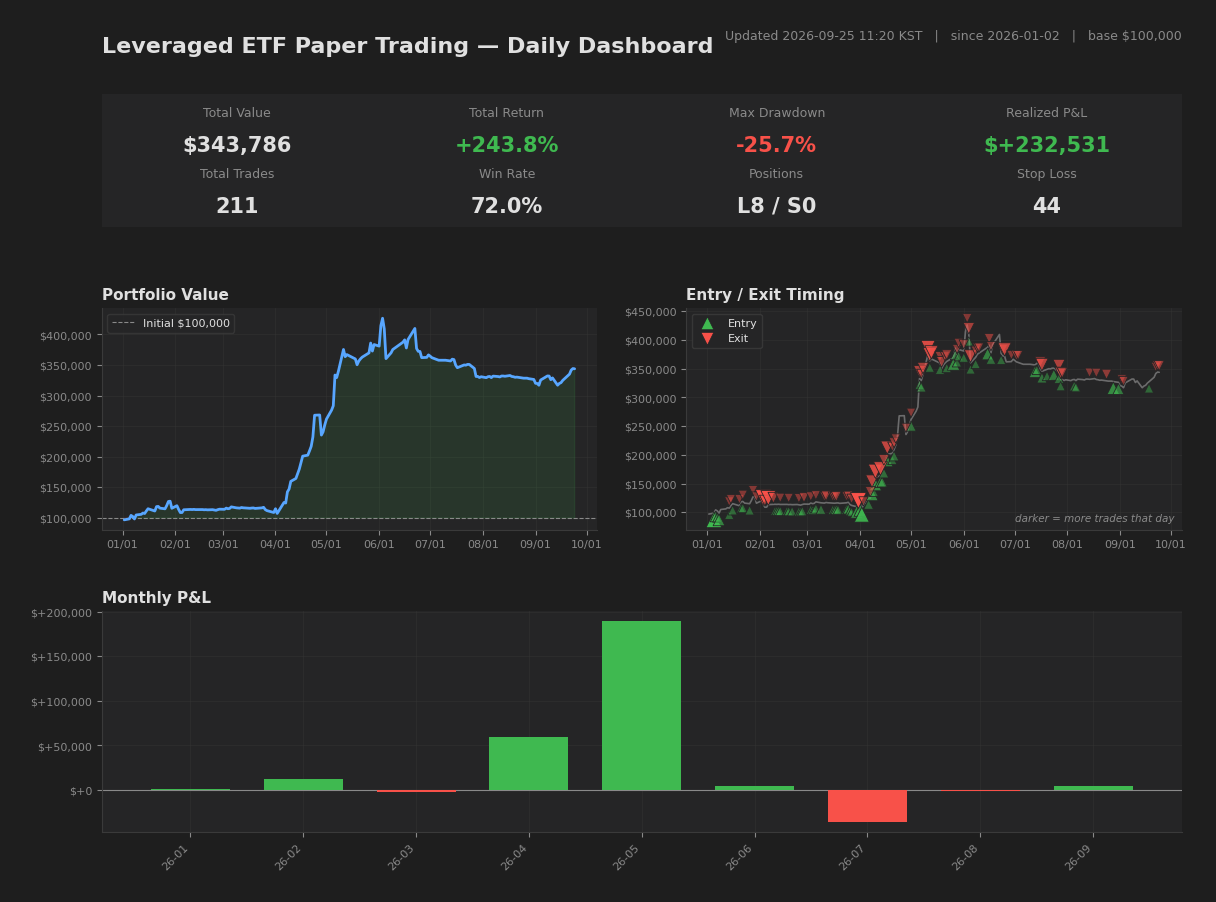
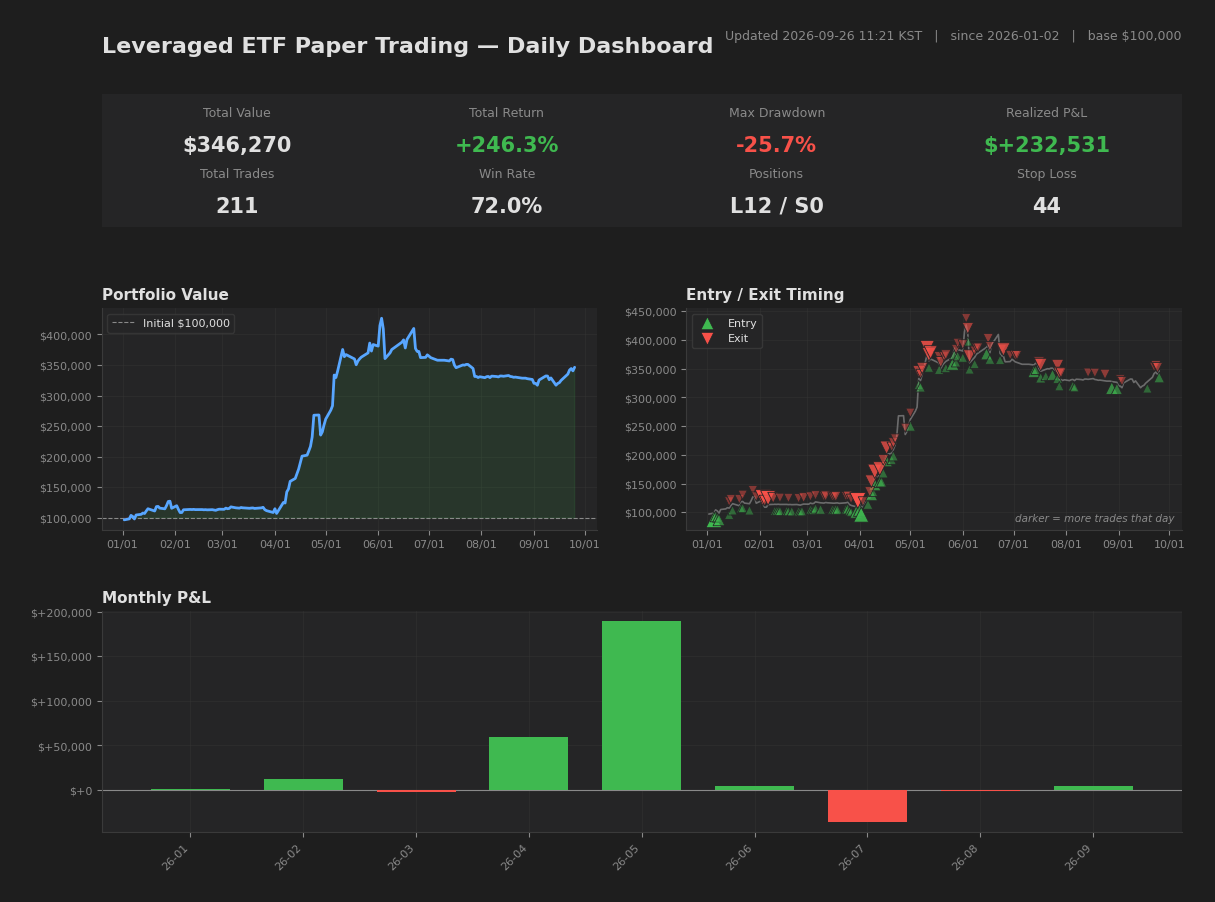
[2026-09-25] Close
Portfolio: $346,270 (+246.3%)
Positions: 12 (L12 S0)
Cumulative: 152/211 wins, P&L: $+232,531
Entries: 4

diff --git a/README.md b/README.md
@@ -20,7 +20,7 @@ Drawdown control vs. benchmark. While the benchmark experienced a maximum drawdo
 
 <!-- METRICS:BEGIN (auto-generated by snapshot_backup.py after each market close; do not edit by hand) -->
 - Maximum drawdown: **-25.68%** (peak 2026-06-03 -> trough 2026-09-03, recovered since)
-- As of **2026-09-24** market close. Updated automatically after each close.
+- As of **2026-09-25** market close. Updated automatically after each close.
 <!-- METRICS:END -->
 
 Execution costs. Because the strategy holds positions over multi-day periods with low turnover, the impact of slippage and commissions is designed to be limited rather than a primary driver of results.
